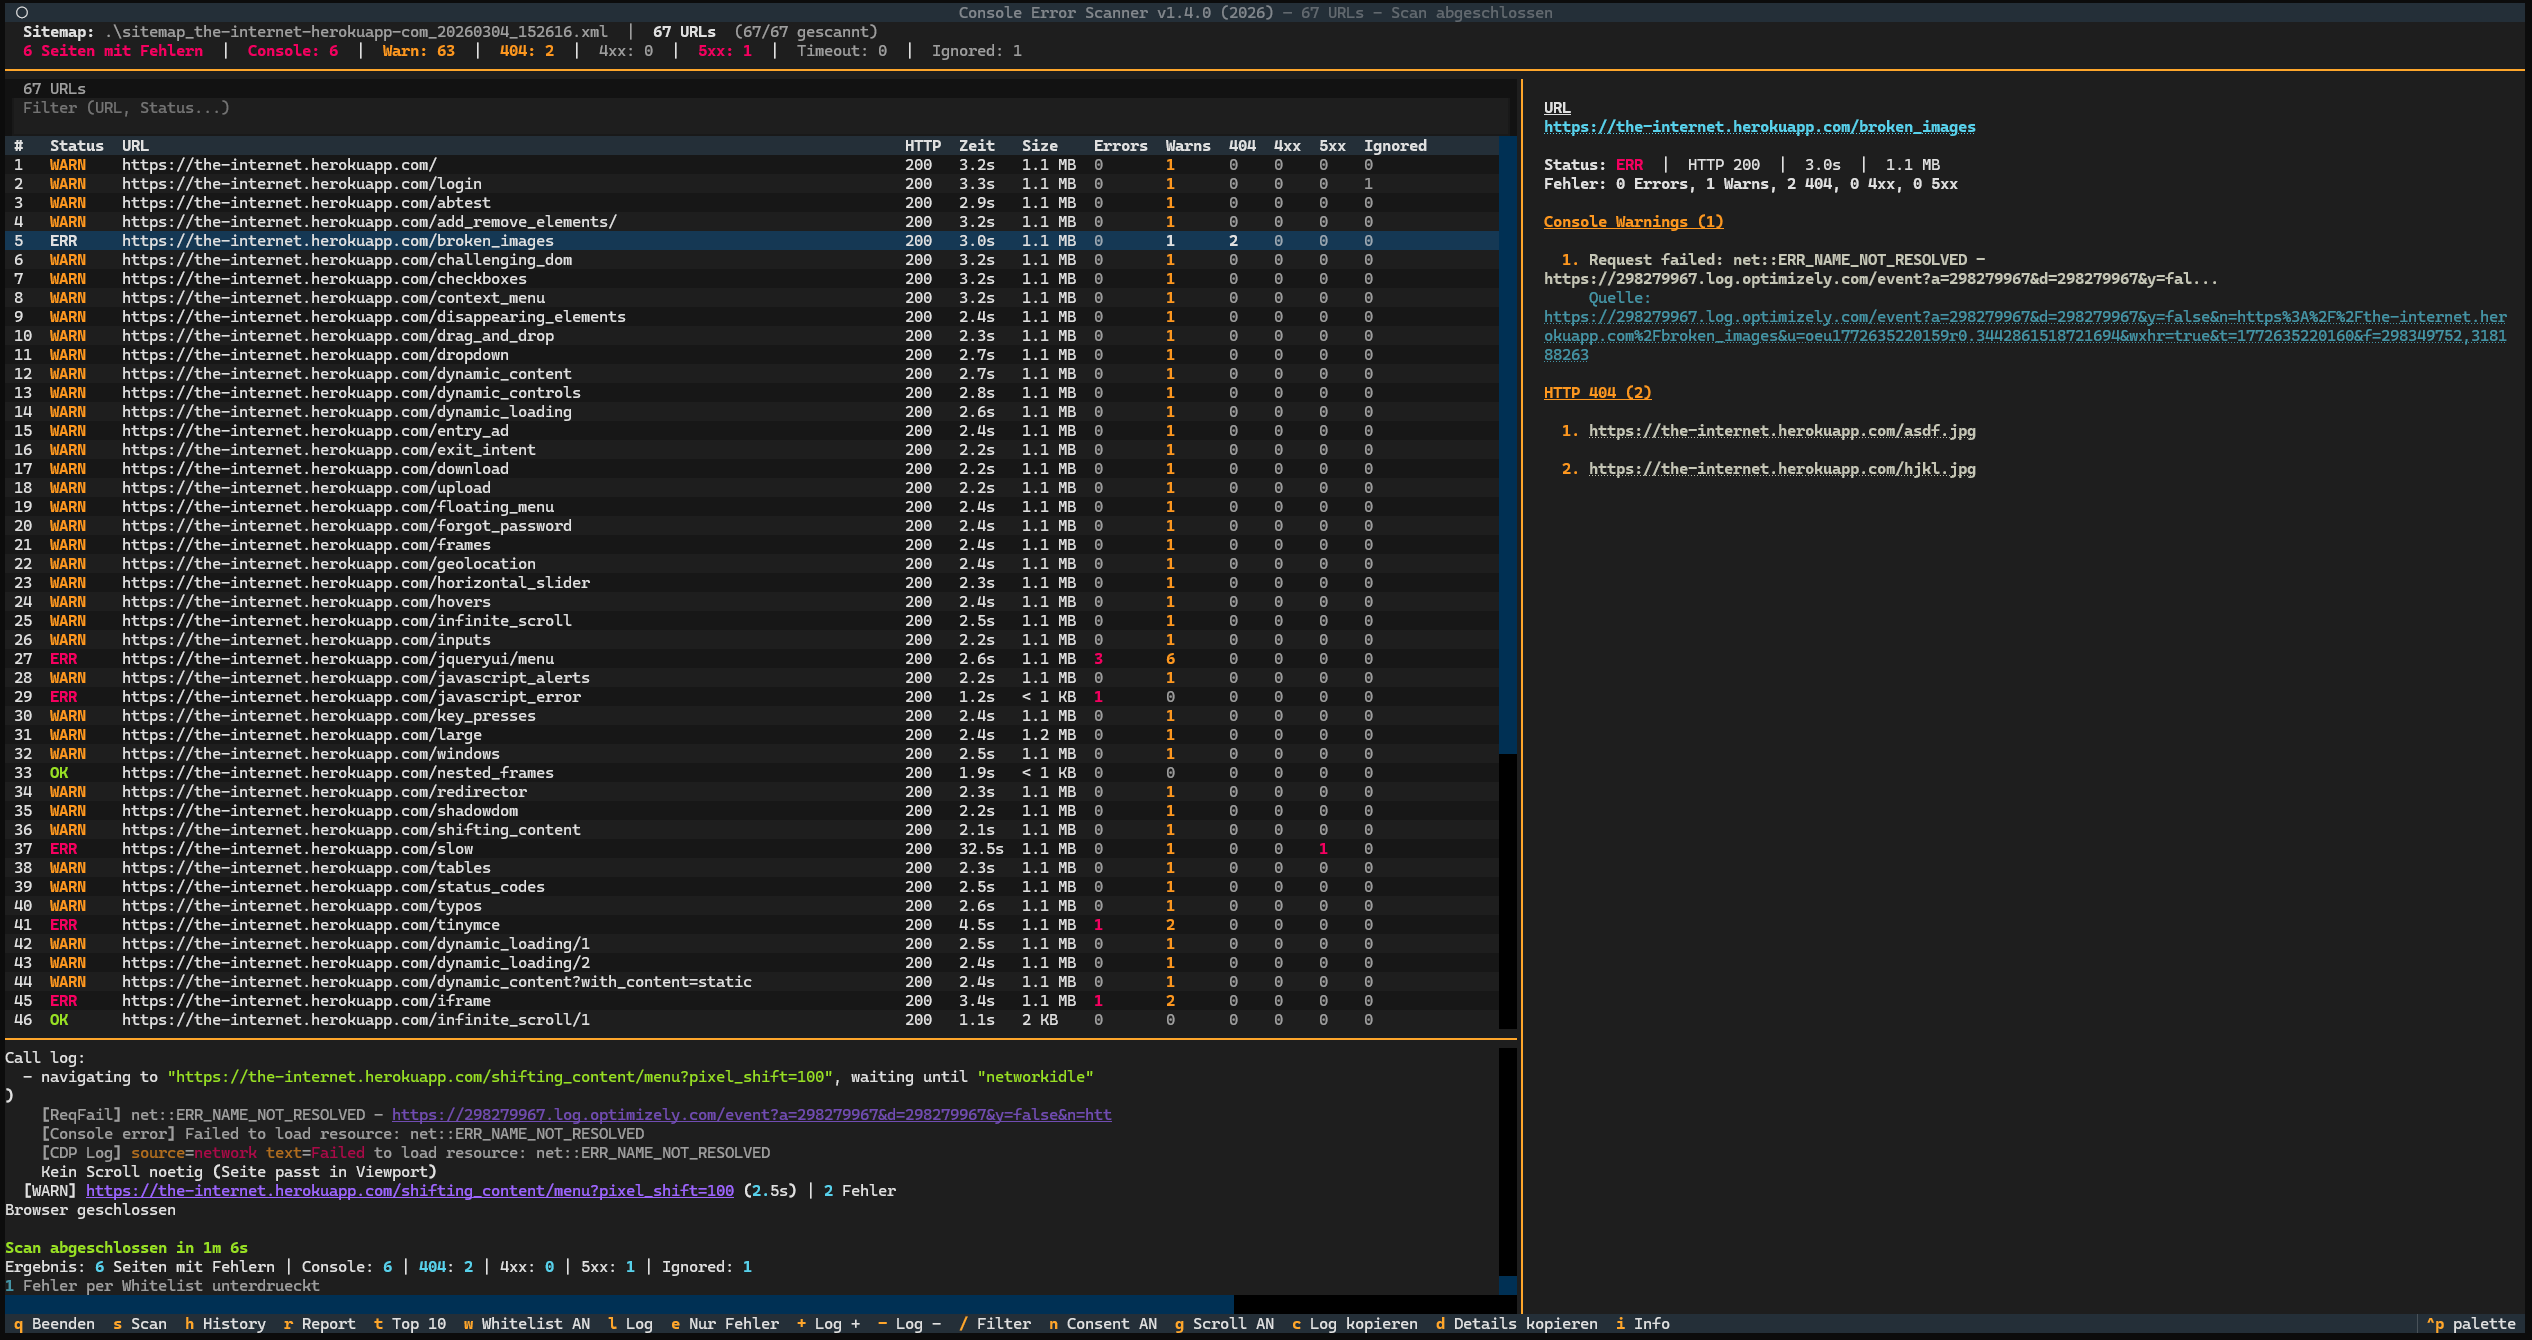
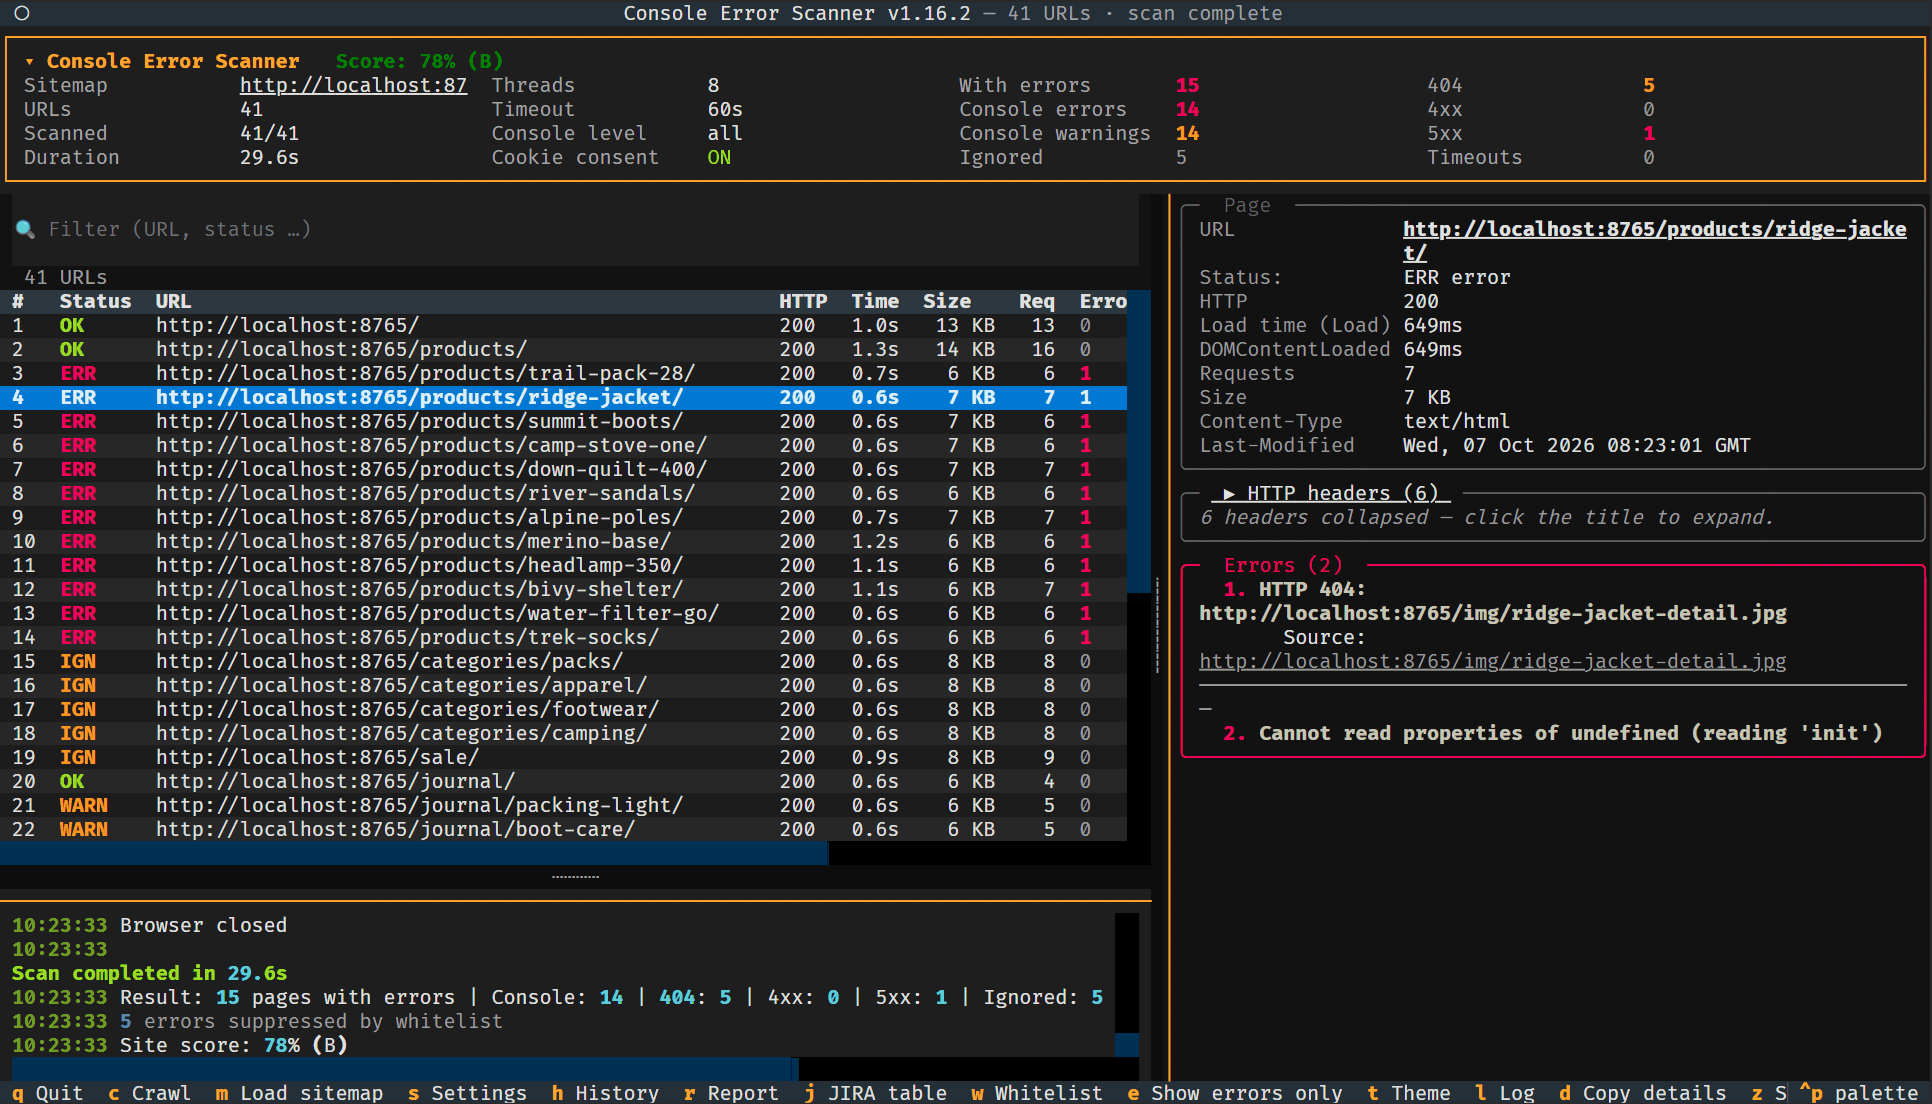
docs: Screenshots neu aufgenommen (v1.16.2), dazu Site-Score und Diät-Ratgeber
Englische Bilder für README.md, deutsche für README.de.md und die Pages.

Changed region(s): [[0.0, 0.0, 1.0, 1.0], [0.6522, 0.6467, 0.9627, 0.6775]]

diff --git a/docs/index.html b/docs/index.html
@@ -233,6 +233,8 @@
       <button class="gallery-tab active" onclick="showSlide(0)">Hauptansicht</button>
       <button class="gallery-tab" onclick="showSlide(1)">Top 10 Fehler</button>
       <button class="gallery-tab" onclick="showSlide(2)">Scan-History</button>
+      <button class="gallery-tab" onclick="showSlide(3)">Site-Score</button>
+      <button class="gallery-tab" onclick="showSlide(4)">Diät-Ratgeber</button>
     </div>
     <div class="gallery-frame">
       <div class="gallery-bar">
@@ -242,16 +244,24 @@
         <div class="gallery-bar-title">console-error-scanner</div>
       </div>
       <div class="gallery-img-wrap active" data-slide="0">
-        <img src="screenshots/01-main.png" alt="Console Error Scanner — Hauptansicht mit Scan-Ergebnissen und Fehler-Details">
-        <div class="gallery-caption">Hauptansicht — URL-Tabelle mit Status, Errors, Warnings, 404er und Detail-Ansicht rechts</div>
+        <img src="screenshots/01-main-de.png" alt="Console Error Scanner — Hauptansicht mit Scan-Ergebnissen und Fehler-Details">
+        <div class="gallery-caption">Hauptansicht — URL-Tabelle mit Status, Ladezeit, Größe und Fehlern, rechts die Details zur gewählten Seite</div>
       </div>
       <div class="gallery-img-wrap" data-slide="1">
-        <img src="screenshots/02-top-10-errors.png" alt="Console Error Scanner — Top 10 Fehler Übersicht">
+        <img src="screenshots/02-top-10-errors-de.png" alt="Console Error Scanner — Top 10 Fehler Übersicht">
         <div class="gallery-caption">Top 10 Fehler — Console Errors, Warnings, HTTP 404, 5xx und Seiten mit den meisten Fehlern</div>
       </div>
       <div class="gallery-img-wrap" data-slide="2">
-        <img src="screenshots/03-history.png" alt="Console Error Scanner — Scan-History">
+        <img src="screenshots/03-history-de.png" alt="Console Error Scanner — Scan-History">
         <div class="gallery-caption">Scan-History — Vergangene Scans mit Datum, URL und Parametern wiederherstellen</div>
+      </div>
+      <div class="gallery-img-wrap" data-slide="3">
+        <img src="screenshots/04-site-score-de.png" alt="Console Error Scanner — Zusammenfassung mit Site-Score" loading="lazy">
+        <div class="gallery-caption">Site-Score — Zusammenfassung nach dem Scan mit den größten Seiten und Ressourcen</div>
+      </div>
+      <div class="gallery-img-wrap" data-slide="4">
+        <img src="screenshots/05-diet-advisor-de.png" alt="Console Error Scanner — Diät-Ratgeber" loading="lazy">
+        <div class="gallery-caption">Diät-Ratgeber — zeigt, was eine Seite schwer macht. Die Bilder stammen vom Scan eines erfundenen Demo-Shops.</div>
       </div>
     </div>
   </section>

diff --git a/README.de.md b/README.de.md
@@ -26,13 +26,21 @@ https://github.com/user-attachments/assets/3c950da9-a78f-4d6f-8eba-57d1b32c4dc3
 ## Screenshots
 
 ### Hauptansicht
-![Hauptansicht](docs/screenshots/01-main.png)
+![Hauptansicht](docs/screenshots/01-main-de.png)
 
 ### Top 10 Fehler
-![Top 10 Fehler](docs/screenshots/02-top-10-errors.png)
+![Top 10 Fehler](docs/screenshots/02-top-10-errors-de.png)
 
 ### Scan-History
-![Scan-History](docs/screenshots/03-history.png)
+![Scan-History](docs/screenshots/03-history-de.png)
+
+### Site-Score
+![Site-Score](docs/screenshots/04-site-score-de.png)
+
+### Diät-Ratgeber
+![Diät-Ratgeber](docs/screenshots/05-diet-advisor-de.png)
+
+Die Bilder zeigen den Scan eines erfundenen Demo-Shops, die Fehler sind absichtlich eingebaut.
 
 ## Installation
 

diff --git a/README.md b/README.md
@@ -34,6 +34,14 @@ https://github.com/user-attachments/assets/3c950da9-a78f-4d6f-8eba-57d1b32c4dc3
 ### Scan history
 ![Scan history](docs/screenshots/03-history.png)
 
+### Site score
+![Site score](docs/screenshots/04-site-score.png)
+
+### Diet advisor
+![Diet advisor](docs/screenshots/05-diet-advisor.png)
+
+The screenshots show a scan of a fictional demo shop with errors planted on purpose.
+
 ## Installation
 
 No dependencies needed - no Python, no Git, no Chrome.
